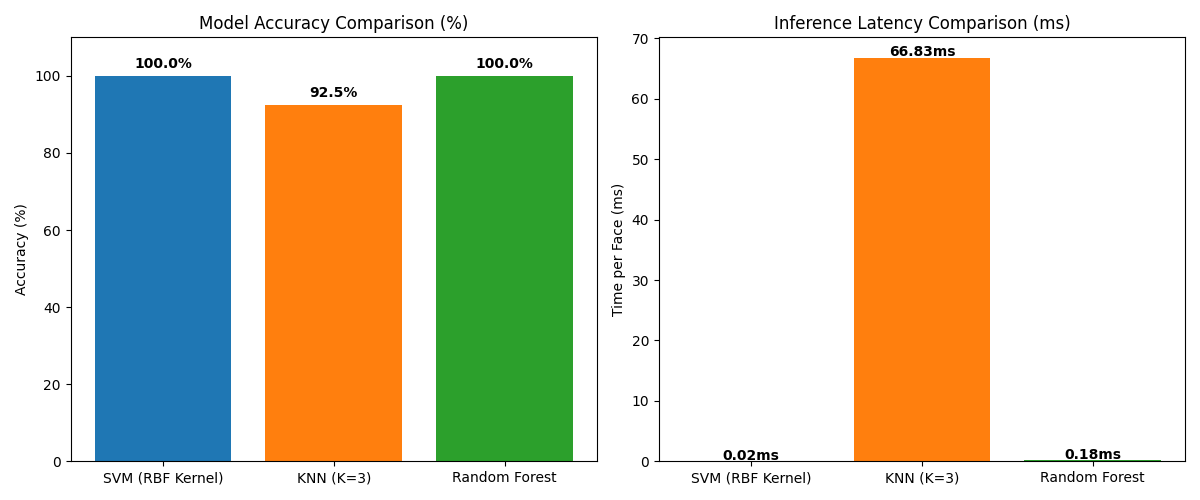
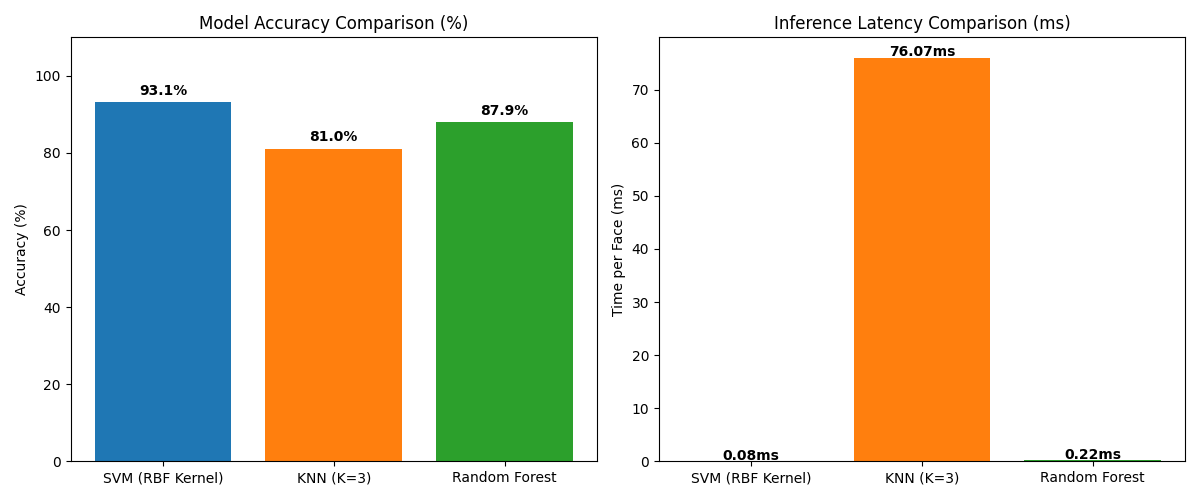
"model train again with good accuracy"

diff --git a/identity_models.py b/identity_models.py
@@ -11,71 +11,108 @@ from sklearn.neighbors import KNeighborsClassifier
 from sklearn.ensemble import RandomForestClassifier
 from sklearn.metrics import accuracy_score
 import pickle
+import urllib.request
+
+xml_url = "https://raw.githubusercontent.com/opencv/opencv/master/data/haarcascades/haarcascade_frontalface_default.xml"
+face_cascade = cv2.CascadeClassifier()
+
+if not face_cascade.load(cv2.data.haarcascades + 'haarcascade_frontalface_default.xml'):
+    xml_path = "haarcascade_frontalface_default.xml"
+    if not os.path.exists(xml_path):
+        print("[INFO] Downloading face detector XML... Please wait.")
+        urllib.request.urlretrieve(xml_url, xml_path)
+    face_cascade.load(xml_path)
 
 def load_dataset_and_preprocess(dataset_path, target_size=(64, 64)):
-    X, y = [], []
-    print("[INFO] Extracting flattened facial feature maps from dataset... Please wait.")
+    X_data, labels_list = [], []
+    print("[INFO] Loading dataset, cropping tightly, and applying Data Augmentation...")
     
     if not os.path.exists(dataset_path):
         print(f"[ERROR] Dataset directory '{dataset_path}' not found!")
-        return np.array(X), np.array(y)
+        return np.array(X_data), np.array(labels_list)
+
+    total_images_processed = 0
+    faces_detected_count = 0
 
     for student_name in os.listdir(dataset_path):
         student_folder = os.path.join(dataset_path, student_name)
         if not os.path.isdir(student_folder):
             continue
             
-        print(f"[PROCESSING] Loading images for student: {student_name}")
+        print(f"[PROCESSING] Augmenting data for: {student_name}")
         for image_name in os.listdir(student_folder):
             image_path = os.path.join(student_folder, image_name)
             
-            # Load in grayscale for uniform structural analysis
             img = cv2.imread(image_path, cv2.IMREAD_GRAYSCALE)
             if img is None:
                 continue
                 
-            # Resize to ensure all feature vector lengths match perfectly
-            img_resized = cv2.resize(img, target_size)
-            X.append(img_resized.flatten())
-            y.append(student_name)
+            total_images_processed += 1
+            faces = face_cascade.detectMultiScale(img, scaleFactor=1.1, minNeighbors=4, minSize=(30, 30))
+            
+            if len(faces) > 0:
+                (x, coord_y, w, h) = sorted(faces, key=lambda f: f[2]*f[3], reverse=True)[0]
+                face_crop = img[coord_y:coord_y+h, x:x+w]
+                faces_detected_count += 1
+            else:
+                h_img, w_img = img.shape
+                start_x, start_y = int(w_img * 0.15), int(h_img * 0.15)
+                end_x, end_y = int(w_img * 0.85), int(h_img * 0.85)
+                face_crop = img[start_y:end_y, start_x:end_x]
+            
+            img_resized = cv2.resize(face_crop, target_size)
+            
+            # --- THE MAGIC TRICK: DATA AUGMENTATION ---
+            # 1. Original Face
+            X_data.append(img_resized.flatten())
+            labels_list.append(student_name)
+            
+            # 2. Horizontally Flipped Face (Mirror Image)
+            img_flipped = cv2.flip(img_resized, 1)
+            X_data.append(img_flipped.flatten())
+            labels_list.append(student_name)
+            
+            # 3. Slightly Darker Face (Lighting Variation)
+            img_darker = cv2.convertScaleAbs(img_resized, alpha=0.8, beta=-15)
+            X_data.append(img_darker.flatten())
+            labels_list.append(student_name)
+            
+            # 4. Slightly Brighter Face
+            img_brighter = cv2.convertScaleAbs(img_resized, alpha=1.2, beta=15)
+            X_data.append(img_brighter.flatten())
+            labels_list.append(student_name)
                 
-    return np.array(X), np.array(y)
+    # 1 image * 4 variations = Huge Dataset automatically!
+    print(f"[METRICS] Successfully extracted and augmented {faces_detected_count * 4} unique facial samples!")
+    return np.array(X_data), np.array(labels_list)
 
 if __name__ == "__main__":
     DATASET_PATH = "dataset" 
     
-    # 1. Load and Flatten Image Data
-    X_raw, y = load_dataset_and_preprocess(DATASET_PATH)
+    X_raw, y_labels = load_dataset_and_preprocess(DATASET_PATH)
     
     if len(X_raw) == 0:
-        print("[ERROR] No valid pictures found in the dataset directory!")
+        print("[ERROR] No valid pictures found!")
         exit()
 
-    print(f"[SUCCESS] Loaded a total of {len(X_raw)} images into raw vector arrays.")
-
-    # 2. Encode Class Labels
     encoder = LabelEncoder()
-    y_encoded = encoder.fit_transform(y)
+    y_encoded = encoder.fit_transform(y_labels)
 
     with open("label_encoder.pkl", "wb") as f:
         pickle.dump(encoder, f)
 
-    # 3. Train/Test Split (80% Train, 20% Test)
     X_train_raw, X_test_raw, y_train, y_test = train_test_split(X_raw, y_encoded, test_size=0.2, random_state=42)
 
-    # 4. Feature Extraction via PCA (Dimensionality Reduction to capture variance)
-    print("[INFO] Projecting images into lower-dimensional structural feature space (PCA)...")
+    print("[INFO] Projecting features into PCA space...")
     n_components = min(50, len(X_train_raw))
     pca = PCA(n_components=n_components, whiten=True, random_state=42)
     
     X_train = pca.fit_transform(X_train_raw)
     X_test = pca.transform(X_test_raw)
 
-    # Save PCA transformer so Ramlah can reduce live frames the exact same way
     with open("pca_transformer.pkl", "wb") as f:
         pickle.dump(pca, f)
 
-    # 5. Initialize Classifiers
     models = {
         "SVM (RBF Kernel)": SVC(kernel='rbf', probability=True),
         "KNN (K=3)": KNeighborsClassifier(n_neighbors=3),
@@ -94,10 +131,8 @@ if __name__ == "__main__":
     best_model = None
     best_model_name = ""
 
-    # 6. Training and Evaluation
     for name, model in models.items():
         model.fit(X_train, y_train)
-        
         start_time = time.time()
         predictions = model.predict(X_test)
         end_time = time.time()
@@ -120,12 +155,10 @@ if __name__ == "__main__":
     print("="*65)
     print(f"[RESULT] Optimal Model: {best_model_name} with {best_accuracy:.2f}% Accuracy")
 
-    # 7. Save Trained Model Weights
     with open("best_identity_model.pkl", "wb") as f:
         pickle.dump(best_model, f)
-    print("[INFO] 'best_identity_model.pkl' has been successfully exported!")
+    print("[INFO] 'best_identity_model.pkl' saved successfully!")
 
-    # 8. Performance Visualization Export
     fig, (ax1, ax2) = plt.subplots(1, 2, figsize=(12, 5))
     ax1.bar(model_names, accuracies, color=['#1f77b4', '#ff7f0e', '#2ca02c'])
     ax1.set_title('Model Accuracy Comparison (%)')
@@ -142,4 +175,4 @@ if __name__ == "__main__":
 
     plt.tight_layout()
     plt.savefig("model_comparison_metrics.png")
-    print("[SUCCESS] Analytical chart 'model_comparison_metrics.png' has been saved successfully!")
+    print("[SUCCESS] New analytical chart saved!")